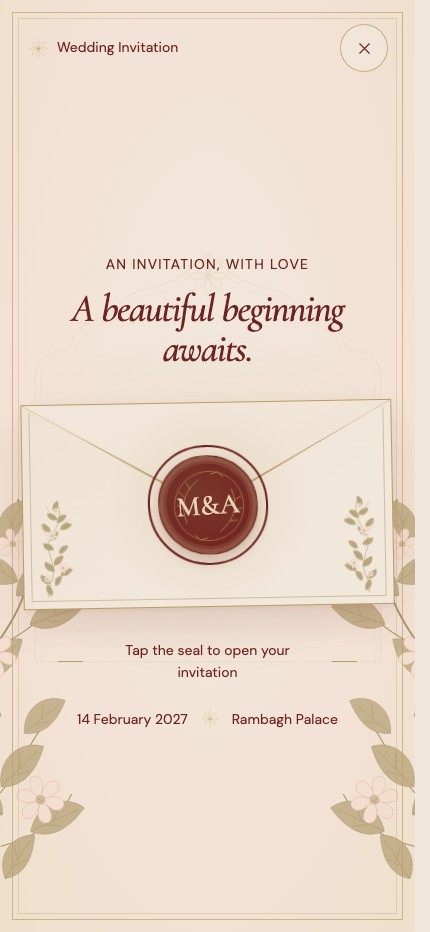
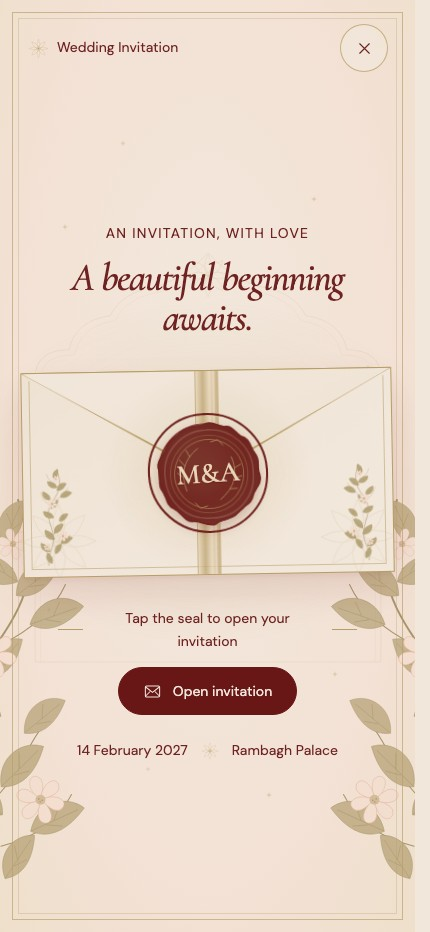
fix: polish invitation opening with satin ribbon and clear opening action

diff --git a/public/index.html b/public/index.html
@@ -114,12 +114,19 @@ The names, dates, functions and personal lines above are fictional demonstration
     .envelope-pocket{position:absolute;inset:0;clip-path:polygon(0 0,50% 50%,100% 0,100% 100%,0 100%);background:var(--gold);z-index:3}
     .envelope-pocket::before{content:'';position:absolute;inset:1px;background:linear-gradient(145deg,var(--inset),var(--paper) 65%);clip-path:polygon(0 0,50% 50%,100% 0,100% 100%,0 100%)}
     .envelope-pocket::after{content:'';position:absolute;inset:8px;border:1px solid rgba(183,157,102,.55);clip-path:polygon(0 0,50% 50%,100% 0,100% 100%,0 100%)}
+    .envelope-ribbon{position:absolute;top:1px;bottom:1px;left:calc(50% - 12px);width:24px;z-index:4;border-inline:1px solid rgba(183,157,102,.55);background:linear-gradient(90deg,var(--pale),var(--gold) 32%,var(--pale) 62%,var(--gold));opacity:.7;pointer-events:none;transition:transform .6s ease,opacity .6s ease}
+    .envelope-ribbon::after{content:'';position:absolute;inset:0 3px 0 auto;width:2px;background:var(--paper);opacity:.5}
+    .envelope-emboss{position:absolute;bottom:-9px;left:-9px;width:90px;height:90px;color:var(--gold);opacity:.18;pointer-events:none}
+    .envelope-emboss.right{left:auto;right:-9px;transform:scaleX(-1)}
+    .envelope-light{position:absolute;left:calc(50% - 110px);top:calc(50% - 80px);width:220px;height:160px;background:radial-gradient(ellipse,rgba(234,214,184,.6),rgba(234,214,184,0) 70%);opacity:0;transform:translate3d(var(--lx,0px),var(--ly,0px),0);transition:transform .55s ease,opacity .55s ease;pointer-events:none}
+    .envelope-stage:hover .envelope-light,.envelope-stage:focus-within .envelope-light{opacity:.45}
     .envelope-sheen{position:absolute;inset:0;background:linear-gradient(110deg,rgba(242,231,219,0) 15%,rgba(234,214,184,.6) 48%,rgba(242,231,219,0) 72%);transform:translateX(-110%);opacity:0;transition:transform 1.25s ease,opacity .5s;pointer-events:none}
     .envelope-stage:hover .envelope-sheen,.envelope-stage:focus-within .envelope-sheen{transform:translateX(110%);opacity:.6}
     .envelope-flap{position:absolute;inset:0 0 48%;background:var(--gold);clip-path:polygon(0 0,100% 0,50% 100%);z-index:4;transform-origin:top;transition:transform .95s cubic-bezier(.22,.61,.36,1) .3s}
     .envelope-flap::after{content:'';position:absolute;inset:1px 1px 3px;background:linear-gradient(160deg,var(--paper),var(--inset));clip-path:polygon(0 0,100% 0,50% 100%)}
     .opening .seal{position:absolute;z-index:5;width:96px;height:96px;min-height:96px;top:calc(50% - 48px);left:calc(50% - 48px);padding:0;border-radius:48% 51% 49% 52%;color:var(--pale);background:radial-gradient(circle at 35% 25%,var(--ink),var(--wine) 75%);border:1px solid var(--wine);box-shadow:0 6px 12px rgba(105,22,23,.22),inset 0 0 0 4px rgba(183,157,102,.25),inset 0 0 0 7px rgba(234,214,184,.14);font:500 27px var(--serif);transition:transform .45s,opacity .45s}
     .seal-monogram{position:relative;z-index:2;text-shadow:0 1px 1px rgba(105,22,23,.6)}
+    .seal-wax{position:absolute;inset:-4px;width:104px;height:104px;max-width:none;pointer-events:none}
     .seal-wreath{position:absolute;inset:10px;width:76px;height:76px;color:var(--gold);opacity:.8;transition:transform .6s}
     .seal-aura{position:absolute;inset:-42px;background:radial-gradient(circle,rgba(183,157,102,.2),rgba(183,157,102,0) 68%);border-radius:50%;opacity:0;transform:scale(.8);transition:transform .55s,opacity .55s;pointer-events:none}
     .opening .seal:hover,.opening .seal:focus-visible{transform:rotate(-3deg) scale(1.035)}
@@ -133,26 +140,40 @@ The names, dates, functions and personal lines above are fictional demonstration
     .opening-cue{display:flex;align-items:center;justify-content:center;gap:12px;max-width:320px;transition:transform .5s,opacity .5s}
     .opening-cue::before,.opening-cue::after{content:'';height:1px;width:25px;background:var(--gold);flex:none}
     .opening-hint{font-size:14px;line-height:1.6;max-width:225px}
+    .opening-actions{display:flex;flex-direction:column;align-items:center;gap:15px;transition:transform .5s,opacity .5s}
+    .opening-cta{position:relative;display:inline-flex;align-items:center;justify-content:center;gap:11px;min-height:48px;padding:11px 24px;border:1px solid var(--wine);border-radius:40px;background:var(--wine);color:var(--paper);font-size:14px;line-height:1.5;overflow:hidden;transition:transform .35s ease}
+    .opening-cta svg{width:19px;height:19px;transition:transform .4s ease}
+    .opening-cta::after{content:'';position:absolute;inset:0;background:linear-gradient(115deg,rgba(234,214,184,0) 15%,rgba(234,214,184,.2),rgba(234,214,184,0) 85%);transform:translateX(-110%);transition:transform .8s ease;pointer-events:none}
+    .opening-cta:hover,.opening-cta:focus-visible{transform:translateY(-2px)}
+    .opening-cta:hover svg{transform:rotate(-8deg)}
+    .opening-cta:hover::after,.opening-cta:focus-visible::after{transform:translateX(110%)}
+    .opening-cta:active{transform:translateY(0) scale(.97)}
+    .opening-motes{position:absolute;inset:0;pointer-events:none;z-index:1}
+    .opening-mote{position:absolute;width:6px;height:6px;background:var(--gold);clip-path:polygon(50% 0,61% 39%,100% 50%,61% 61%,50% 100%,39% 61%,0 50%,39% 39%);opacity:0;animation:opening-mote 4.2s ease var(--delay) both}
     .opening-meta{display:flex;align-items:center;justify-content:center;flex-wrap:wrap;gap:8px 12px;font-size:14px;margin-top:24px;transition:transform .5s,opacity .5s}
     .opening-meta svg{width:20px;height:20px;color:var(--gold)}
     .opening-flare{position:absolute;inset:-100px;background:radial-gradient(ellipse,rgba(242,231,219,.95),rgba(242,231,219,0) 68%);opacity:0;pointer-events:none}
     .opening.opening-now{opacity:0}
     .opening-now .envelope-stage{pointer-events:none;--lift:-8px;--rx:0deg;--ry:0deg;--rz:0deg}
     .opening-now .envelope-flap{transform:rotateX(178deg)}
+    .opening-now .envelope-ribbon{opacity:0;transform:translate3d(0,24px,0) scaleY(.94)}
     .opening-now .envelope-card{transform:translateY(-72px) rotate(-1deg)}
     .opening-now .seal{transform:scale(1.13);opacity:0}
     .opening-now .seal::after{animation:seal-ring .95s ease-out}
     .opening-now .opening-title,.opening-now .opening-cue,.opening-now .opening-meta{opacity:0;transform:translateY(-8px);transition-delay:.65s}
+    .opening-now .opening-actions{opacity:0;transform:translateY(-8px);transition-delay:.65s;pointer-events:none}
     .opening-now .opening-flare{animation:soft-flare 1.2s ease .7s}
     .opening.is-skipping{opacity:0;transition:opacity .24s ease;pointer-events:none}
     .seal-spark{position:absolute;left:50%;top:50%;width:7px;height:7px;background:var(--gold);clip-path:polygon(50% 0,62% 38%,100% 50%,62% 62%,50% 100%,38% 62%,0 50%,38% 38%);pointer-events:none;opacity:0;z-index:6}
     .opening-now .seal-spark{animation:seal-spark 1.2s ease-out forwards}
     @keyframes opening-arrive{from{opacity:0;transform:translateY(15px)}to{opacity:1;transform:translateY(0)}}
+    @keyframes opening-mote{0%{opacity:0;transform:translateY(10px) scale(.5)}35%{opacity:.4;transform:translateY(0) scale(1)}100%{opacity:0;transform:translateY(-20px) scale(.6)}}
     @keyframes seal-ring{0%{opacity:.7;transform:scale(.7)}100%{opacity:0;transform:scale(3.5)}}
     @keyframes soft-flare{0%,100%{opacity:0}55%{opacity:.75}}
     @keyframes seal-spark{0%{opacity:0;transform:translate(0,0) scale(.3)}20%{opacity:.85}100%{opacity:0;transform:translate(var(--sx),var(--sy)) scale(.5)}}
     @media(max-width:599px){.opening{padding:96px 22px 44px}.opening::before{inset:12px}.opening::after{inset:18px}.opening-topbar{top:max(24px,env(safe-area-inset-top));left:27px;right:27px}.opening-edition{gap:7px}.opening-edition svg{width:23px;height:23px}.opening .opening-title{max-width:300px}.opening .opening-kicker{margin-bottom:13px;letter-spacing:.09em}.opening .envelope-stage{margin-block:37px 28px}.opening .opening-sprig{width:48px;height:100px;bottom:12px;left:9px}.opening .opening-sprig.right{right:9px}.opening-garden{left:-68px;bottom:-55px;opacity:.52}.opening-garden.right{right:-68px}.opening .opening-meta{margin-top:24px}.envelope-card{inset-inline:20px}}
     @media(max-height:740px){.opening{padding-block:85px 30px}.opening .opening-title{font-size:36px;max-width:400px}.opening .envelope-stage{margin-block:24px 20px}.opening .envelope{height:190px}.opening .opening-meta{margin-top:16px}}
+    @media(max-height:740px){.opening-actions{gap:0}.opening-actions .opening-cue{display:none}.opening .envelope-stage{margin-bottom:19px}}
     /* ===== HEADER AND HERO ===== */
     .site-header{max-width:var(--max);margin:auto;min-height:82px;border-bottom:1px solid rgba(183,157,102,.55);display:flex;align-items:center;justify-content:space-between;gap:20px;padding:12px 24px}.brand{font:italic 32px var(--serif);display:flex;align-items:center;letter-spacing:-.04em}.demo-label{font-size:14px;margin-left:auto;padding:4px 12px;border:1px solid rgba(183,157,102,.6);border-radius:22px}.site-nav{display:flex;gap:28px;align-items:center}.site-nav a{font-size:14px;display:flex;align-items:center}.hero{position:relative;min-height:790px;display:flex;justify-content:center;text-align:center;overflow:hidden}.hero-backdrop{position:absolute;inset:0;will-change:transform;pointer-events:none}.hero-arch{position:absolute;top:24px;bottom:50px;left:50%;width:min(800px,calc(100% - 36px));height:calc(100% - 74px);transform:translateX(-50%);color:var(--gold);opacity:.65}.hero-rosette{position:absolute;width:110px;height:110px;left:calc(50% - 55px);top:38px;color:var(--gold);opacity:.6}.hero-copy{position:relative;z-index:2;padding:112px 22px 60px;max-width:660px}.blessing{font-size:14px;letter-spacing:.06em}.hero-subtitle{font-size:14px;letter-spacing:.14em;text-transform:uppercase;margin-top:27px}.hero-intro{margin-top:6px;font:italic 23px var(--serif)}.names{display:flex;flex-direction:column;align-items:center;font:italic 500 clamp(88px,10.4vw,136px)/.9 var(--serif);letter-spacing:-.055em;margin:28px 0 25px}.names .amp{font-size:44px;line-height:1.2;font-weight:400;margin:8px 0 10px;color:var(--gold)}.hero-date{font-size:16px;letter-spacing:.035em}.hero-venue{margin-top:4px;font-size:14px}.hero .button{margin-top:25px}.scroll-hint{display:flex;align-items:center;justify-content:center;gap:12px;margin-top:28px;font-size:14px}.scroll-hint::before,.scroll-hint::after{content:'';width:28px;height:1px;background:var(--gold)}.hero-botanical{position:absolute;bottom:-16px;width:clamp(112px,21vw,260px);height:580px;left:-22px;opacity:.9}.hero-botanical.right{left:auto;right:-22px;transform:scaleX(-1)}.hero-pavilion{position:absolute;bottom:2px;left:9%;width:220px;opacity:.7}.hero-pavilion.right{left:auto;right:9%;transform:scaleX(-1)}.hero-bottom{position:absolute;bottom:-3px;left:0;width:100%;height:95px;color:var(--leaf);opacity:.7;pointer-events:none}.date-ribbon{border-block:1px solid rgba(183,157,102,.6);display:flex;align-items:center;justify-content:center;gap:26px;min-height:68px;font:italic 23px var(--serif);background:var(--inset);position:relative;z-index:2}.date-ribbon svg{width:32px;height:22px;color:var(--gold)}
     /* ===== COUPLE AND COUNTDOWN ===== */
@@ -178,6 +199,7 @@ The names, dates, functions and personal lines above are fictional demonstration
   <!-- ===== OPENING ===== -->
   <div class="opening paper-pattern" id="opening" role="dialog" aria-modal="true" aria-label="Open the wedding invitation">
     <div class="opening-atmosphere" aria-hidden="true"></div>
+    <div class="opening-motes" aria-hidden="true"><i class="opening-mote" style="left:15%;top:24%;--delay:.3s"></i><i class="opening-mote" style="left:29%;top:15%;--delay:.7s"></i><i class="opening-mote" style="left:75%;top:21%;--delay:.5s"></i><i class="opening-mote" style="left:88%;top:39%;--delay:1s"></i><i class="opening-mote" style="left:11%;top:65%;--delay:.8s"></i><i class="opening-mote" style="left:80%;top:72%;--delay:.6s"></i><i class="opening-mote" style="left:35%;top:82%;--delay:1.1s"></i><i class="opening-mote" style="left:64%;top:85%;--delay:.4s"></i></div>
     <svg class="opening-architecture" viewBox="0 0 900 1000" preserveAspectRatio="xMidYMid meet" aria-hidden="true"><path d="M75 925V310Q75 248 149 248Q161 185 238 174Q264 121 343 110Q407 87 450 38Q493 87 557 110Q636 121 662 174Q739 185 751 248Q825 248 825 310V925Z" fill="none" stroke="currentColor"/><path d="M87 925V314Q87 259 160 259Q173 197 248 185Q276 132 349 122Q411 100 450 56Q489 100 551 122Q624 132 652 185Q727 197 740 259Q813 259 813 314V925" fill="none" stroke="currentColor" opacity=".5"/><use href="#rosette" x="394" y="31" width="112" height="112"/></svg>
     <svg class="opening-garden" viewBox="0 0 180 520" aria-hidden="true"><use href="#botanical"/></svg><svg class="opening-garden right" viewBox="0 0 180 520" aria-hidden="true"><use href="#botanical"/></svg>
     <div class="opening-topbar"><span class="opening-edition"><svg viewBox="0 0 100 100" aria-hidden="true"><use href="#rosette"/></svg>Wedding Invitation</span><button class="opening-close" id="close-opening" type="button" aria-label="Close opening" title="Skip to invitation"><svg viewBox="0 0 24 24" aria-hidden="true"><path d="M6 6L18 18M18 6L6 18" fill="none" stroke="currentColor" stroke-width="1.4" stroke-linecap="round"/></svg></button></div>
@@ -185,11 +207,11 @@ The names, dates, functions and personal lines above are fictional demonstration
       <p class="opening-kicker">An invitation, with love</p>
       <h2 class="opening-title">A beautiful beginning awaits.</h2>
       <div class="envelope-stage" id="envelope-stage"><div class="envelope-halo" aria-hidden="true"></div><div class="envelope">
-        <div class="envelope-back"></div><div class="envelope-card" aria-hidden="true"><svg viewBox="0 0 140 30"><use href="#divider"/></svg><span class="envelope-card-names">Meera &amp; Arjun</span><span class="envelope-card-date">14 February 2027</span></div><div class="envelope-pocket"><div class="envelope-sheen" aria-hidden="true"></div></div><div class="envelope-flap"></div>
+        <div class="envelope-back"></div><div class="envelope-card" aria-hidden="true"><svg viewBox="0 0 140 30"><use href="#divider"/></svg><span class="envelope-card-names">Meera &amp; Arjun</span><span class="envelope-card-date">14 February 2027</span></div><div class="envelope-pocket"><svg class="envelope-emboss" viewBox="0 0 100 100" aria-hidden="true"><use href="#rosette"/></svg><svg class="envelope-emboss right" viewBox="0 0 100 100" aria-hidden="true"><use href="#rosette"/></svg><div class="envelope-sheen" aria-hidden="true"></div><div class="envelope-light" aria-hidden="true"></div></div><div class="envelope-flap"></div><div class="envelope-ribbon" aria-hidden="true"></div>
         <svg class="opening-sprig" viewBox="0 0 180 520" aria-hidden="true"><use href="#botanical"/></svg><svg class="opening-sprig right" viewBox="0 0 180 520" aria-hidden="true"><use href="#botanical"/></svg>
-        <button class="seal" id="open-invitation" type="button" aria-label="Open invitation"><span class="seal-aura" aria-hidden="true"></span><svg class="seal-wreath" viewBox="0 0 100 100" aria-hidden="true"><circle cx="50" cy="50" r="44" fill="none" stroke="currentColor" stroke-width=".8"/><path d="M28 22Q7 49 28 78M72 22Q93 49 72 78M21 35L14 28M18 48L9 42M20 62L11 59M79 35L86 28M82 48L91 42M80 62L89 59M42 10L50 5 58 10M42 90L50 95 58 90" fill="none" stroke="currentColor" stroke-width="1" stroke-linecap="round"/></svg><span class="seal-monogram">M&amp;A</span></button>
+        <button class="seal" id="open-invitation" type="button" aria-label="Open invitation"><svg class="seal-wax" viewBox="0 0 100 100" aria-hidden="true"><defs><radialGradient id="wax-face" cx="32%" cy="24%" r="83%"><stop offset="0" stop-color="var(--ink)"/><stop offset=".64" stop-color="var(--wine)"/><stop offset="1" stop-color="var(--ink)"/></radialGradient></defs><path d="M50 3C58 1 61 7 67 7C75 6 77 14 82 17C91 20 89 27 94 34C99 41 94 47 97 54C99 63 91 66 89 74C87 82 79 81 74 88C68 95 60 91 53 97C45 99 40 93 32 93C24 93 22 84 15 80C7 76 10 68 5 62C1 56 6 49 3 41C2 33 10 30 12 23C14 15 22 15 27 9C33 3 41 7 50 3Z" fill="url(#wax-face)" stroke="var(--wine)" stroke-width="1.2"/><path d="M50 9C73 8 92 28 91 50C92 75 73 92 50 91C26 92 9 73 9 50C8 27 26 9 50 9Z" fill="none" stroke="var(--pale)" stroke-opacity=".2" stroke-width="1.5"/><circle cx="50" cy="50" r="36" fill="none" stroke="var(--gold)" stroke-opacity=".3" stroke-width="1"/></svg><span class="seal-aura" aria-hidden="true"></span><svg class="seal-wreath" viewBox="0 0 100 100" aria-hidden="true"><circle cx="50" cy="50" r="44" fill="none" stroke="currentColor" stroke-width=".8"/><path d="M28 22Q7 49 28 78M72 22Q93 49 72 78M21 35L14 28M18 48L9 42M20 62L11 59M79 35L86 28M82 48L91 42M80 62L89 59M42 10L50 5 58 10M42 90L50 95 58 90" fill="none" stroke="currentColor" stroke-width="1" stroke-linecap="round"/></svg><span class="seal-monogram">M&amp;A</span></button>
       </div></div>
-      <div class="opening-cue"><p class="opening-hint">Tap the seal to open your invitation</p></div>
+      <div class="opening-actions"><div class="opening-cue"><p class="opening-hint">Tap the seal to open your invitation</p></div><button class="opening-cta" id="open-invitation-cta" type="button" aria-label="Open the wedding invitation"><svg viewBox="0 0 24 24" aria-hidden="true"><rect x="3" y="5" width="18" height="14" rx="1.5" fill="none" stroke="currentColor" stroke-width="1.3"/><path d="M3 6L12 13 21 6M3 18L9 12M21 18L15 12" fill="none" stroke="currentColor" stroke-width="1.3"/></svg>Open invitation</button></div>
       <p class="opening-meta"><span>14 February 2027</span><svg viewBox="0 0 100 100" aria-hidden="true"><use href="#rosette"/></svg><span>Rambagh Palace</span></p>
       <div class="opening-flare" aria-hidden="true"></div>
     </div>
@@ -321,14 +343,15 @@ The names, dates, functions and personal lines above are fictional demonstration
   /* ===== REVEAL ===== */
   let openTimer,openingPointerRAF=0,openingPointer=null,openingRect=null;
   const envelopeStage=$('envelope-stage');
-  function resetEnvelopeTilt(){cancelAnimationFrame(openingPointerRAF);openingPointerRAF=0;openingPointer=null;openingRect=null;envelopeStage.style.removeProperty('--rx');envelopeStage.style.removeProperty('--ry');}
+  function resetEnvelopeTilt(){cancelAnimationFrame(openingPointerRAF);openingPointerRAF=0;openingPointer=null;openingRect=null;['--rx','--ry','--lx','--ly'].forEach(property=>envelopeStage.style.removeProperty(property));}
   function completeOpening(){if(opened)return;opened=true;clearTimeout(openTimer);resetEnvelopeTilt();$('page').inert=false;$('opening').hidden=true;$('opening').style.display='none';document.body.classList.remove('sealed');window.scrollTo({top:0,behavior:'instant'});$('hero').focus({preventScroll:true});startParticles();schedulePath();}
   function dismissOpening(){if(opened||$('opening').classList.contains('is-skipping'))return;clearTimeout(openTimer);resetEnvelopeTilt();if(reducedMotion){completeOpening();return;}$('opening').classList.add('is-skipping');openTimer=setTimeout(completeOpening,240);}
   $('close-opening').addEventListener('click',dismissOpening);
-  $('open-invitation').addEventListener('click',()=>{if(opened||$('opening').classList.contains('opening-now')||$('opening').classList.contains('is-skipping'))return;if(reducedMotion){completeOpening();return;}resetEnvelopeTilt();const envelope=$('opening').querySelector('.envelope');for(let n=0;n<16;n++){const spark=element('i','seal-spark');spark.setAttribute('aria-hidden','true');const angle=n/16*Math.PI*2;spark.style.setProperty('--sx',Math.cos(angle)*160+'px');spark.style.setProperty('--sy',Math.sin(angle)*135+'px');spark.style.animationDelay=(n%3)*35+'ms';envelope.append(spark);}$('opening').classList.add('opening-now');openTimer=setTimeout(completeOpening,1900);});
-  $('opening').addEventListener('keydown',event=>{if(event.key==='Escape'){event.preventDefault();dismissOpening();return;}if(event.key==='Tab'){const first=$('close-opening'),last=$('open-invitation');if(event.shiftKey&&document.activeElement===first){event.preventDefault();last.focus();}else if(!event.shiftKey&&document.activeElement===last){event.preventDefault();first.focus();}}});
+  function beginOpening(){if(opened||$('opening').classList.contains('opening-now')||$('opening').classList.contains('is-skipping'))return;if(reducedMotion){completeOpening();return;}resetEnvelopeTilt();const envelope=$('opening').querySelector('.envelope');for(let n=0;n<16;n++){const spark=element('i','seal-spark');spark.setAttribute('aria-hidden','true');const angle=n/16*Math.PI*2;spark.style.setProperty('--sx',Math.cos(angle)*160+'px');spark.style.setProperty('--sy',Math.sin(angle)*135+'px');spark.style.animationDelay=(n%3)*35+'ms';envelope.append(spark);}$('opening').classList.add('opening-now');openTimer=setTimeout(completeOpening,1900);}
+  $('open-invitation').addEventListener('click',beginOpening);$('open-invitation-cta').addEventListener('click',beginOpening);
+  $('opening').addEventListener('keydown',event=>{if(event.key==='Escape'){event.preventDefault();dismissOpening();return;}if(event.key==='Tab'){const controls=$('opening').querySelectorAll('button'),first=controls[0],last=controls[controls.length-1];if(event.shiftKey&&document.activeElement===first){event.preventDefault();last.focus();}else if(!event.shiftKey&&document.activeElement===last){event.preventDefault();first.focus();}}});
   envelopeStage.addEventListener('pointerenter',event=>{if(event.pointerType==='mouse'&&!reducedMotion)openingRect=envelopeStage.getBoundingClientRect();},{passive:true});
-  envelopeStage.addEventListener('pointermove',event=>{if(event.pointerType!=='mouse'||reducedMotion||opened||$('opening').classList.contains('opening-now'))return;openingPointer={x:event.clientX,y:event.clientY};if(!openingPointerRAF)openingPointerRAF=requestAnimationFrame(()=>{openingPointerRAF=0;if(!openingPointer)return;const rect=openingRect||envelopeStage.getBoundingClientRect();const x=Math.max(-.5,Math.min(.5,(openingPointer.x-rect.left)/rect.width-.5));const y=Math.max(-.5,Math.min(.5,(openingPointer.y-rect.top)/rect.height-.5));envelopeStage.style.setProperty('--rx',(-y*4).toFixed(2)+'deg');envelopeStage.style.setProperty('--ry',(x*5).toFixed(2)+'deg');});},{passive:true});
+  envelopeStage.addEventListener('pointermove',event=>{if(event.pointerType!=='mouse'||reducedMotion||opened||$('opening').classList.contains('opening-now'))return;openingPointer={x:event.clientX,y:event.clientY};if(!openingPointerRAF)openingPointerRAF=requestAnimationFrame(()=>{openingPointerRAF=0;if(!openingPointer)return;const rect=openingRect||envelopeStage.getBoundingClientRect();const x=Math.max(-.5,Math.min(.5,(openingPointer.x-rect.left)/rect.width-.5));const y=Math.max(-.5,Math.min(.5,(openingPointer.y-rect.top)/rect.height-.5));envelopeStage.style.setProperty('--rx',(-y*4).toFixed(2)+'deg');envelopeStage.style.setProperty('--ry',(x*5).toFixed(2)+'deg');envelopeStage.style.setProperty('--lx',(x*90).toFixed(1)+'px');envelopeStage.style.setProperty('--ly',(y*50).toFixed(1)+'px');});},{passive:true});
   envelopeStage.addEventListener('pointerleave',resetEnvelopeTilt,{passive:true});
   window.addEventListener('blur',resetEnvelopeTilt);
   /* ===== COUNTDOWN ===== */

diff --git a/work/MATCH_REPORT.md b/work/MATCH_REPORT.md
@@ -83,6 +83,17 @@ The reference is a visual direction, not a website with equivalent sections to r
 - Verification: **PASS**, 13 focused browser groups in work/ONBOARDING_RESULTS.json, plus all 21 static checks. The five required sizes pass complete-viewport visibility, 44px control size, 14px font size, scroll lock, keyboard focus, reveal/dismissal and hero plane clearance.
 - Additional checks: desktop hover/tilt reset, touch-context tap without mouse tilt, close during reveal, Escape, timer cancellation, reduced motion with zero running animations, and a short 360×640 screen all passed. No script errors or failed non-font requests.
 - Visual review: fresh opening screenshots at all five required widths, plus hover and mid-reveal frames, are saved as work/screenshots/onboarding-*.jpg. Phone and desktop opening views were reviewed. Prior section screenshots describe the unchanged remainder of the invitation.
-- Current deploy size: **89,510 bytes** in one public/index.html; no added deployed assets.
+- Size after the first opening refinement: **89,510 bytes** in one public/index.html; no added deployed assets.
 - Checks not repeated: unchanged calendar/gallery/time-zone/whole-page CPU tests retain the initial full-build results. Lighthouse and real-phone checks remain deferred for the reasons recorded above.
 - Preview: `python3 -m http.server 8080 --directory public`; refresh the preview to replay the opening.
+
+## Further opening polish — 25 November 2026
+
+- Limited the second pass to the same opening CSS, markup and reveal JavaScript. The automated comparison confirms all other HTML, wedding content and features remain byte-for-byte unchanged. The existing working-tree deletion of AGENTS.md is left untouched and will not be included in the change commit; its last committed rules and the chat instructions informed this pass.
+- Added a narrow satin gold ribbon which releases before the flap opens, hand-authored irregular wax-rim artwork, low-contrast embossed corner rosettes, and warm pointer-following light. All movement remains transform/opacity only. Eight tiny opening sparkles play once and fade out; no continuous attention animation was added.
+- Added a clear Open invitation action below the seal. It uses the same reveal handler, duplicate-click guard, scroll unlock and hero focus as the seal. Keyboard focus cycles through Close, the seal and the new action. Close and Escape remain available, including during the reveal.
+- Sound remains omitted because it was conditional and the supplied project instructions prohibit audio. No sound resource, silent toggle or autoplay was added.
+- Verification: **PASS**, 14 focused browser groups plus all 21 static checks. The five required viewport sizes and an additional 360×640 phone pass; desktop pointer feedback, touch for both opening controls, focus trapping, Close/Escape, cancellation and reduced motion all pass. No JavaScript errors or failed non-font requests.
+- Visual review: updated opening screenshots for all five sizes, hover, and mid-reveal are in work/screenshots/onboarding-*.jpg; phone and desktop views were reviewed. Unchanged sections retain the prior full-build results. Lighthouse and physical-device testing remain deferred as documented above.
+- Current deploy size: **94,984 bytes**, entirely in public/index.html. DETAILS.md and the originals remain untouched.
+- Preview with `python3 -m http.server 8080 --directory public`; refresh to replay the opening.

diff --git a/work/STYLE_DNA.md b/work/STYLE_DNA.md
@@ -8,7 +8,7 @@ Components: pointed/scalloped architectural arches, thin rules and corner orname
 Imagery: original vector botanical sprigs, lotus-like flowers, garden architecture and fictional portraits; pale framed gallery; artwork never copied or traced.
 Order: envelope → hero → couple → countdown → celebrations → venue → illustrated moments → closing/footer.
 Naming: short neutral section names with expressive serif titles; no repeated tracked all-caps eyebrow on every section.
-Opening: layered ivory envelope, embossed burgundy wax seal, botanical arch frame; gentle mouse tilt, seal press/radiance and paper sheen; glow/ring 0–450ms, flap 300–1250ms, flare/fade to 1900ms; close/Escape bypass in 240ms; silent.
+Opening: layered ivory envelope, embossed burgundy wax seal, botanical arch frame; satin ribbon, irregular wax rim, paper emboss, mouse tilt/light, finite sparkles and an explicit opening button; glow/ring 0–450ms, flap 300–1250ms, flare/fade to 1900ms; close/Escape bypass in 240ms; silent.
 Motion: 650ms opacity/translate entrances with small stagger; background moves at 35% scroll; slow rose petals and soft sparkles; quiet button translation. Motion is inferred/original because the reference is static.
 Plane: accent gold, pale-paper fill, 60% opacity, 56px phone/68px desktop; first segment hugs left edge through the hero; monotonic cubic path below.
 Recreation limits: print texture and painted foliage become original SVG linework and CSS pattern; no reference artwork, logos or personal text; portraits and gallery are clearly fictional until real photos arrive.

diff --git a/work/PLAN.md b/work/PLAN.md
@@ -38,3 +38,11 @@ The researched reference is one printed invitation, not a full website or video.
 - [x] Update reports and deliver the revised local file.
 
 Sound is optional in the user request. Keep the opening silent under the existing no-audio hard rule; no audio file was supplied. The close button dismisses the opening into the existing hero.
+
+## Further opening polish — 25 November 2026
+
+- [x] Read the latest details, plan, design palette and prior project rules from Git because AGENTS.md has been removed in the working tree; preserve that user change.
+- [x] Add satin ribbon, original wax-rim artwork, embossed paper corners, pointer-following light and a finite sparkle entrance.
+- [x] Add an explicit Open invitation button sharing the seal's reveal, and update the focus trap for three controls.
+- [x] Verify the revised opening on all required screen sizes and a short phone; touch, keyboard, Close/Escape and reduced motion.
+- [x] Update reports and hand off the local file.
